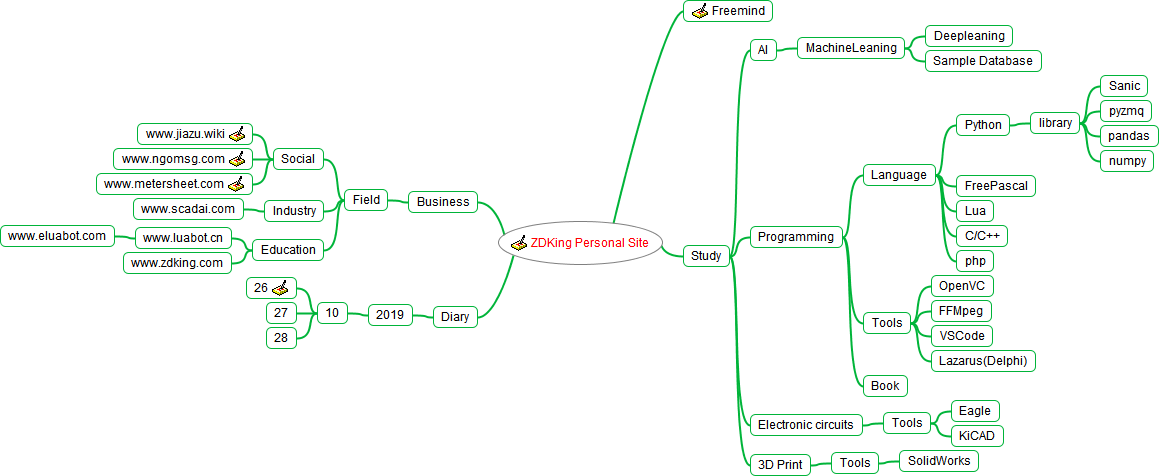
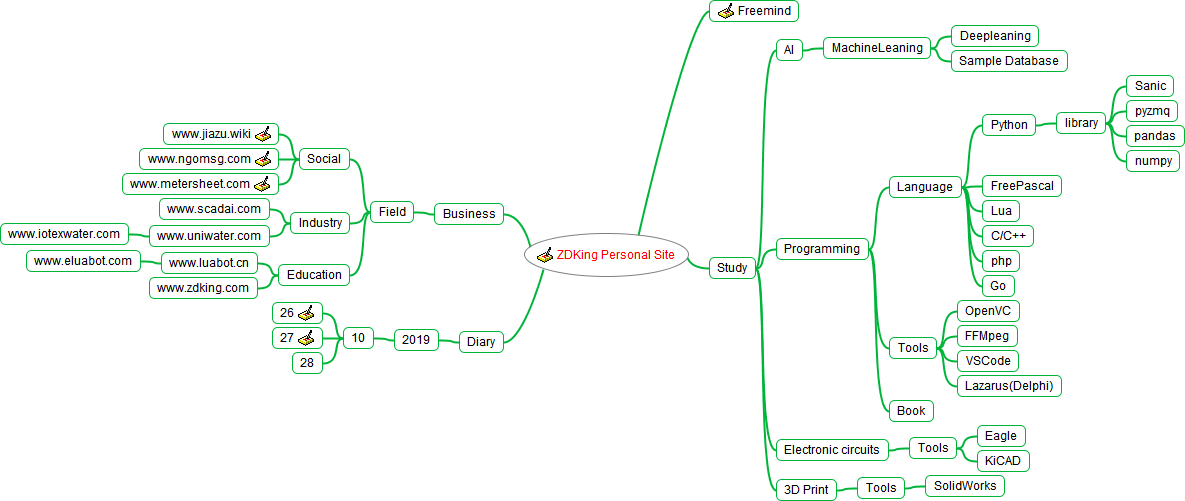
update

Changed region(s): [[0.0, 0.0, 1.0, 1.0]]

diff --git a/index.html b/index.html
@@ -23,13 +23,13 @@
                    };
                };
           
-          --></script></head><body><h1>ZDKing Personal Site</h1><div style="width:96%;  padding:2%;  margin-bottom:10px;  border: 0px;  text-align:center;  vertical-align:center;"><img src="index.html_files//image.png" style="margin-bottom:10px; &#9;border: 0px; &#9;text-align:center; &#9;vertical-align:center;" alt="Imagemap" usemap="#fm_imagemap" /></div><map id="fm_imagemap" name="fm_imagemap"><area shape="rect" href="#FMID_324586553FM" alt="ZDKing Personal Site" title="ZDKing Personal Site" coords="498,221,663,265" /><area shape="rect" href="#FMID_1692365619FM" alt="Freemind" title="Freemind" coords="683,0,773,22" /><area shape="rect" href="#FMID_438001269FM" alt="Study" title="Study" coords="683,245,730,267" /><area shape="rect" href="#FMID_1925809980FM" alt="AI" title="AI" coords="750,39,777,61" /><area shape="rect" href="#FMID_1808935212FM" alt="MachineLeaning" title="MachineLeaning" coords="797,37,905,59" /><area shape="rect" href="#FMID_1274045151FM" alt="Deepleaning" title="Deepleaning" coords="925,25,1013,47" /><area shape="rect" href="#FMID_1541631340FM" alt="Sample Database" title="Sample Database" coords="925,50,1042,72" /><area shape="rect" href="#FMID_1450008686FM" alt="Programming" title="Programming" coords="750,226,843,248" /><area shape="rect" href="#FMID_601178110FM" alt="Language" title="Language" coords="863,164,936,186" /><area shape="rect" href="#FMID_532134653FM" alt="Python" title="Python" coords="956,114,1010,136" /><area shape="rect" href="#FMID_1126212131FM" alt="library" title="library" coords="1030,112,1080,134" /><area shape="rect" href="#FMID_166784092FM" alt="Sanic" title="Sanic" coords="1100,75,1148,97" /><area shape="rect" href="#FMID_580101920FM" alt="pyzmq" title="pyzmq" coords="1100,100,1152,122" /><area shape="rect" href="#FMID_1724360212FM" alt="pandas" title="pandas" coords="1100,125,1159,147" /><area shape="rect" href="#FMID_1177914584FM" alt="numpy" title="numpy" coords="1100,150,1154,172" /><area shape="rect" href="#FMID_1179983716FM" alt="FreePascal" title="FreePascal" coords="956,175,1036,197" /><area shape="rect" href="#FMID_1032736293FM" alt="Lua" title="Lua" coords="956,200,994,222" /><area shape="rect" href="#FMID_273419364FM" alt="C/C++" title="C/C++" coords="956,225,1008,247" /><area shape="rect" href="#FMID_1274681725FM" alt="php" title="php" coords="956,250,994,272" /><area shape="rect" href="#FMID_814754868FM" alt="Tools" title="Tools" coords="863,312,911,334" /><area shape="rect" href="#FMID_1771251486FM" alt="OpenVC" title="OpenVC" coords="931,275,994,297" /><area shape="rect" href="#FMID_281736592FM" alt="FFMpeg" title="FFMpeg" coords="931,300,992,322" /><area shape="rect" href="#FMID_125081083FM" alt="VSCode" title="VSCode" coords="931,325,993,347" /><area shape="rect" href="#FMID_1157037978FM" alt="Lazarus(Delphi)" title="Lazarus(Delphi)" coords="931,350,1036,372" /><area shape="rect" href="#FMID_929158994FM" alt="Book" title="Book" coords="863,375,908,397" /><area shape="rect" href="#FMID_1467440762FM" alt="Electronic circuits" title="Electronic circuits" coords="750,414,863,436" /><area shape="rect" href="#FMID_724490479FM" alt="Tools" title="Tools" coords="883,412,931,434" /><area shape="rect" href="#FMID_1334848775FM" alt="Eagle" title="Eagle" coords="951,400,1000,422" /><area shape="rect" href="#FMID_748104726FM" alt="KiCAD" title="KiCAD" coords="951,425,1004,447" /><area shape="rect" href="#FMID_1907627200FM" alt="3D Print" title="3D Print" coords="750,454,811,476" /><area shape="rect" href="#FMID_1784762606FM" alt="Tools" title="Tools" coords="831,452,879,474" /><area shape="rect" href="#FMID_795148257FM" alt="SolidWorks" title="SolidWorks" coords="899,450,979,472" /><area shape="rect" href="#FMID_665399369FM" alt="Business" title="Business" coords="408,191,478,213" /><area shape="rect" href="#FMID_1979929464FM" alt="Field" title="Field" coords="344,189,388,211" /><area shape="rect" href="#FMID_1813335850FM" alt="Social" title="Social" coords="273,148,324,170" /><area shape="rect" href="#FMID_715215336FM" alt="www.jiazu.wiki" title="www.jiazu.wiki" coords="137,123,253,145" /><area shape="rect" href="#FMID_172414357FM" alt="www.ngomsg.com" title="www.ngomsg.com" coords="113,148,253,170" /><area shape="rect" href="#FMID_1734874101FM" alt="www.metersheet.com" title="www.metersheet.com" coords="96,173,253,195" /><area shape="rect" href="#FMID_714604465FM" alt="Industry" title="Industry" coords="264,200,324,222" /><area shape="rect" href="#FMID_1628388255FM" alt="www.scadai.com" title="www.scadai.com" coords="133,198,244,220" /><area shape="rect" href="#FMID_1527942893FM" alt="Education" title="Education" coords="252,239,324,261" /><area shape="rect" href="#FMID_70371952FM" alt="www.luabot.cn" title="www.luabot.cn" coords="135,227,232,249" /><area shape="rect" href="#FMID_483627979FM" alt="www.eluabot.com" title="www.eluabot.com" coords="0,225,115,247" /><area shape="rect" href="#FMID_1557303617FM" alt="www.zdking.com" title="www.zdking.com" coords="123,252,232,274" /><area shape="rect" href="#FMID_393752218FM" alt="Diary" title="Diary" coords="433,306,478,328" /><area shape="rect" href="#FMID_1789706351FM" alt="2019" title="2019" coords="368,304,413,326" /><area shape="rect" href="#FMID_871307802FM" alt="10" title="10" coords="317,302,348,324" /><area shape="rect" href="#FMID_1291112032FM" alt="26" title="26" coords="246,277,297,299" /><area shape="rect" href="#FMID_889546281FM" alt="27" title="27" coords="266,302,297,324" /><area shape="rect" href="#FMID_1162359967FM" alt="28" title="28" coords="266,327,297,349" /></map>
+          --></script></head><body><h1>ZDKing Personal Site</h1><div style="width:96%;  padding:2%;  margin-bottom:10px;  border: 0px;  text-align:center;  vertical-align:center;"><img src="index.html_files//image.png" style="margin-bottom:10px; &#9;border: 0px; &#9;text-align:center; &#9;vertical-align:center;" alt="Imagemap" usemap="#fm_imagemap" /></div><map id="fm_imagemap" name="fm_imagemap"><area shape="rect" href="#FMID_324586553FM" alt="ZDKing Personal Site" title="ZDKing Personal Site" coords="524,233,689,277" /><area shape="rect" href="#FMID_1692365619FM" alt="Freemind" title="Freemind" coords="709,0,799,22" /><area shape="rect" href="#FMID_438001269FM" alt="Study" title="Study" coords="709,257,756,279" /><area shape="rect" href="#FMID_1925809980FM" alt="AI" title="AI" coords="776,39,803,61" /><area shape="rect" href="#FMID_1808935212FM" alt="MachineLeaning" title="MachineLeaning" coords="823,37,931,59" /><area shape="rect" href="#FMID_1274045151FM" alt="Deepleaning" title="Deepleaning" coords="951,25,1039,47" /><area shape="rect" href="#FMID_1541631340FM" alt="Sample Database" title="Sample Database" coords="951,50,1068,72" /><area shape="rect" href="#FMID_1450008686FM" alt="Programming" title="Programming" coords="776,238,869,260" /><area shape="rect" href="#FMID_601178110FM" alt="Language" title="Language" coords="889,176,962,198" /><area shape="rect" href="#FMID_532134653FM" alt="Python" title="Python" coords="982,114,1036,136" /><area shape="rect" href="#FMID_1126212131FM" alt="library" title="library" coords="1056,112,1106,134" /><area shape="rect" href="#FMID_166784092FM" alt="Sanic" title="Sanic" coords="1126,75,1174,97" /><area shape="rect" href="#FMID_580101920FM" alt="pyzmq" title="pyzmq" coords="1126,100,1178,122" /><area shape="rect" href="#FMID_1724360212FM" alt="pandas" title="pandas" coords="1126,125,1185,147" /><area shape="rect" href="#FMID_1177914584FM" alt="numpy" title="numpy" coords="1126,150,1180,172" /><area shape="rect" href="#FMID_1179983716FM" alt="FreePascal" title="FreePascal" coords="982,175,1062,197" /><area shape="rect" href="#FMID_1032736293FM" alt="Lua" title="Lua" coords="982,200,1020,222" /><area shape="rect" href="#FMID_273419364FM" alt="C/C++" title="C/C++" coords="982,225,1034,247" /><area shape="rect" href="#FMID_1274681725FM" alt="php" title="php" coords="982,250,1020,272" /><area shape="rect" href="#FMID_1379882171FM" alt="Go" title="Go" coords="982,275,1015,297" /><area shape="rect" href="#FMID_814754868FM" alt="Tools" title="Tools" coords="889,337,937,359" /><area shape="rect" href="#FMID_1771251486FM" alt="OpenVC" title="OpenVC" coords="957,300,1020,322" /><area shape="rect" href="#FMID_281736592FM" alt="FFMpeg" title="FFMpeg" coords="957,325,1018,347" /><area shape="rect" href="#FMID_125081083FM" alt="VSCode" title="VSCode" coords="957,350,1019,372" /><area shape="rect" href="#FMID_1157037978FM" alt="Lazarus(Delphi)" title="Lazarus(Delphi)" coords="957,375,1062,397" /><area shape="rect" href="#FMID_929158994FM" alt="Book" title="Book" coords="889,400,934,422" /><area shape="rect" href="#FMID_1467440762FM" alt="Electronic circuits" title="Electronic circuits" coords="776,439,889,461" /><area shape="rect" href="#FMID_724490479FM" alt="Tools" title="Tools" coords="909,437,957,459" /><area shape="rect" href="#FMID_1334848775FM" alt="Eagle" title="Eagle" coords="977,425,1026,447" /><area shape="rect" href="#FMID_748104726FM" alt="KiCAD" title="KiCAD" coords="977,450,1030,472" /><area shape="rect" href="#FMID_1907627200FM" alt="3D Print" title="3D Print" coords="776,479,837,501" /><area shape="rect" href="#FMID_1784762606FM" alt="Tools" title="Tools" coords="857,477,905,499" /><area shape="rect" href="#FMID_795148257FM" alt="SolidWorks" title="SolidWorks" coords="925,475,1005,497" /><area shape="rect" href="#FMID_665399369FM" alt="Business" title="Business" coords="434,203,504,225" /><area shape="rect" href="#FMID_1979929464FM" alt="Field" title="Field" coords="370,201,414,223" /><area shape="rect" href="#FMID_1813335850FM" alt="Social" title="Social" coords="299,148,350,170" /><area shape="rect" href="#FMID_715215336FM" alt="www.jiazu.wiki" title="www.jiazu.wiki" coords="163,123,279,145" /><area shape="rect" href="#FMID_172414357FM" alt="www.ngomsg.com" title="www.ngomsg.com" coords="139,148,279,170" /><area shape="rect" href="#FMID_1734874101FM" alt="www.metersheet.com" title="www.metersheet.com" coords="122,173,279,195" /><area shape="rect" href="#FMID_714604465FM" alt="Industry" title="Industry" coords="290,212,350,234" /><area shape="rect" href="#FMID_1628388255FM" alt="www.scadai.com" title="www.scadai.com" coords="159,198,270,220" /><area shape="rect" href="#FMID_540403476FM" alt="www.uniwater.com" title="www.uniwater.com" coords="149,225,270,247" /><area shape="rect" href="#FMID_579435031FM" alt="www.iotexwater.com" title="www.iotexwater.com" coords="0,223,129,245" /><area shape="rect" href="#FMID_1527942893FM" alt="Education" title="Education" coords="278,264,350,286" /><area shape="rect" href="#FMID_70371952FM" alt="www.luabot.cn" title="www.luabot.cn" coords="161,252,258,274" /><area shape="rect" href="#FMID_483627979FM" alt="www.eluabot.com" title="www.eluabot.com" coords="26,250,141,272" /><area shape="rect" href="#FMID_1557303617FM" alt="www.zdking.com" title="www.zdking.com" coords="149,277,258,299" /><area shape="rect" href="#FMID_393752218FM" alt="Diary" title="Diary" coords="459,331,504,353" /><area shape="rect" href="#FMID_1789706351FM" alt="2019" title="2019" coords="394,329,439,351" /><area shape="rect" href="#FMID_871307802FM" alt="10" title="10" coords="343,327,374,349" /><area shape="rect" href="#FMID_1291112032FM" alt="26" title="26" coords="272,302,323,324" /><area shape="rect" href="#FMID_889546281FM" alt="27" title="27" coords="272,327,323,349" /><area shape="rect" href="#FMID_1162359967FM" alt="28" title="28" coords="292,352,323,374" /></map>
 
 <div class="node"><img src="index.html_files//hide.png" class="hideshow" alt="hide" onClick="toggle(&quot;N10007&quot;)" id="imgN10007" /><a id="FMID_324586553FM" /><div class="nodecontent" style="color:#ff0000;background-color:#ffffff;">ZDKing Personal Site</div><div class="note-and-attributes"><span class="note">
     <p>
       2019年10月26日16:48，此时此刻我坐在北京丰台区的宾馆里，用Github写自己的个人网站，记录所学、所想、所知、所为... 。既然是记录，用什么方式记录能帮助我梳理思绪，立刻想到脑图。
     </p>
-  </span></div><div class="content" id="N10007"><div class="node"><img src="index.html_files//hide.png" class="hideshow" alt="hide" onClick="toggle(&quot;N100FB&quot;)" id="imgN100FB" /><a id="FMID_665399369FM" /><div class="nodecontent">Business</div><div class="content" id="N100FB"><div class="node"><img src="index.html_files//hide.png" class="hideshow" alt="hide" onClick="toggle(&quot;N10102&quot;)" id="imgN10102" /><a id="FMID_1979929464FM" /><div class="nodecontent">Field</div><div class="content" id="N10102"><div class="node"><img src="index.html_files//hide.png" class="hideshow" alt="hide" onClick="toggle(&quot;N10108&quot;)" id="imgN10108" /><a id="FMID_1813335850FM" /><div class="nodecontent">Social</div><div class="content" id="N10108"><div class="node"><img src="index.html_files//leaf.png" class="hideshow" alt="leaf" /><a id="FMID_715215336FM" /><div class="nodecontent">www.jiazu.wiki</div><div class="note-and-attributes"><span class="note">
+  </span></div><div class="content" id="N10007"><div class="node"><img src="index.html_files//hide.png" class="hideshow" alt="hide" onClick="toggle(&quot;N100FF&quot;)" id="imgN100FF" /><a id="FMID_665399369FM" /><div class="nodecontent">Business</div><div class="content" id="N100FF"><div class="node"><img src="index.html_files//hide.png" class="hideshow" alt="hide" onClick="toggle(&quot;N10106&quot;)" id="imgN10106" /><a id="FMID_1979929464FM" /><div class="nodecontent">Field</div><div class="content" id="N10106"><div class="node"><img src="index.html_files//hide.png" class="hideshow" alt="hide" onClick="toggle(&quot;N1010C&quot;)" id="imgN1010C" /><a id="FMID_1813335850FM" /><div class="nodecontent">Social</div><div class="content" id="N1010C"><div class="node"><img src="index.html_files//leaf.png" class="hideshow" alt="leaf" /><a id="FMID_715215336FM" /><div class="nodecontent">www.jiazu.wiki</div><div class="note-and-attributes"><span class="note">
     <p>
       我利用开源的JSMind和php编写的家族族谱的网站，可以用它来记录自己家的族谱并记录先辈的事迹。网站首页默认打开了孔圣人的家谱，并为你展示了孔圣人后代，南宗北宗等分支，家族人员脉络清晰，人员生平事迹可以双击人名打开网页查看，使用方便，同时支持手机，平板浏览。
     </p>
@@ -95,13 +95,17 @@
     <p>
       问题反馈：webmaster@lanwav.com
     </p>
-  </span></div></div></div></div><div class="node"><img src="index.html_files//hide.png" class="hideshow" alt="hide" onClick="toggle(&quot;N10187&quot;)" id="imgN10187" /><a id="FMID_714604465FM" /><div class="nodecontent">Industry</div><div class="content" id="N10187"><div class="node"><img src="index.html_files//leaf.png" class="hideshow" alt="leaf" /><a id="FMID_1628388255FM" /><div class="nodecontent">www.scadai.com</div></div></div></div><div class="node"><img src="index.html_files//hide.png" class="hideshow" alt="hide" onClick="toggle(&quot;N10194&quot;)" id="imgN10194" /><a id="FMID_1527942893FM" /><div class="nodecontent">Education</div><div class="content" id="N10194"><div class="node"><img src="index.html_files//hide.png" class="hideshow" alt="hide" onClick="toggle(&quot;N1019A&quot;)" id="imgN1019A" /><a id="FMID_70371952FM" /><div class="nodecontent">www.luabot.cn</div><div class="content" id="N1019A"><div class="node"><img src="index.html_files//leaf.png" class="hideshow" alt="leaf" /><a id="FMID_483627979FM" /><div class="nodecontent">www.eluabot.com</div></div></div></div><div class="node"><img src="index.html_files//leaf.png" class="hideshow" alt="leaf" /><a id="FMID_1557303617FM" /><div class="nodecontent">www.zdking.com</div></div></div></div></div></div></div></div><div class="node"><img src="index.html_files//hide.png" class="hideshow" alt="hide" onClick="toggle(&quot;N101B0&quot;)" id="imgN101B0" /><a id="FMID_393752218FM" /><div class="nodecontent">Diary</div><div class="content" id="N101B0"><div class="node"><img src="index.html_files//hide.png" class="hideshow" alt="hide" onClick="toggle(&quot;N101B7&quot;)" id="imgN101B7" /><a id="FMID_1789706351FM" /><div class="nodecontent">2019</div><div class="content" id="N101B7"><div class="node"><img src="index.html_files//hide.png" class="hideshow" alt="hide" onClick="toggle(&quot;N101BD&quot;)" id="imgN101BD" /><a id="FMID_871307802FM" /><div class="nodecontent">10</div><div class="content" id="N101BD"><div class="node"><img src="index.html_files//leaf.png" class="hideshow" alt="leaf" /><a id="FMID_1291112032FM" /><div class="nodecontent">26</div><div class="note-and-attributes"><span class="note">
+  </span></div></div></div></div><div class="node"><img src="index.html_files//hide.png" class="hideshow" alt="hide" onClick="toggle(&quot;N10188&quot;)" id="imgN10188" /><a id="FMID_714604465FM" /><div class="nodecontent">Industry</div><div class="content" id="N10188"><div class="node"><img src="index.html_files//leaf.png" class="hideshow" alt="leaf" /><a id="FMID_1628388255FM" /><div class="nodecontent">www.scadai.com</div></div><div class="node"><img src="index.html_files//hide.png" class="hideshow" alt="hide" onClick="toggle(&quot;N10194&quot;)" id="imgN10194" /><a id="FMID_540403476FM" /><div class="nodecontent">www.uniwater.com</div><div class="content" id="N10194"><div class="node"><img src="index.html_files//leaf.png" class="hideshow" alt="leaf" /><a id="FMID_579435031FM" /><div class="nodecontent">www.iotexwater.com</div></div></div></div></div></div><div class="node"><img src="index.html_files//hide.png" class="hideshow" alt="hide" onClick="toggle(&quot;N101A2&quot;)" id="imgN101A2" /><a id="FMID_1527942893FM" /><div class="nodecontent">Education</div><div class="content" id="N101A2"><div class="node"><img src="index.html_files//hide.png" class="hideshow" alt="hide" onClick="toggle(&quot;N101A8&quot;)" id="imgN101A8" /><a id="FMID_70371952FM" /><div class="nodecontent">www.luabot.cn</div><div class="content" id="N101A8"><div class="node"><img src="index.html_files//leaf.png" class="hideshow" alt="leaf" /><a id="FMID_483627979FM" /><div class="nodecontent">www.eluabot.com</div></div></div></div><div class="node"><img src="index.html_files//leaf.png" class="hideshow" alt="leaf" /><a id="FMID_1557303617FM" /><div class="nodecontent">www.zdking.com</div></div></div></div></div></div></div></div><div class="node"><img src="index.html_files//hide.png" class="hideshow" alt="hide" onClick="toggle(&quot;N101BE&quot;)" id="imgN101BE" /><a id="FMID_393752218FM" /><div class="nodecontent">Diary</div><div class="content" id="N101BE"><div class="node"><img src="index.html_files//hide.png" class="hideshow" alt="hide" onClick="toggle(&quot;N101C5&quot;)" id="imgN101C5" /><a id="FMID_1789706351FM" /><div class="nodecontent">2019</div><div class="content" id="N101C5"><div class="node"><img src="index.html_files//hide.png" class="hideshow" alt="hide" onClick="toggle(&quot;N101CB&quot;)" id="imgN101CB" /><a id="FMID_871307802FM" /><div class="nodecontent">10</div><div class="content" id="N101CB"><div class="node"><img src="index.html_files//leaf.png" class="hideshow" alt="leaf" /><a id="FMID_1291112032FM" /><div class="nodecontent">26</div><div class="note-and-attributes"><span class="note">
     <p>
       2019年10月26日，买了一个zdking.com的域名，并在github上开通了个人博客。
     </p>
-  </span></div></div><div class="node"><img src="index.html_files//leaf.png" class="hideshow" alt="leaf" /><a id="FMID_889546281FM" /><div class="nodecontent">27</div></div><div class="node"><img src="index.html_files//leaf.png" class="hideshow" alt="leaf" /><a id="FMID_1162359967FM" /><div class="nodecontent">28</div></div></div></div></div></div></div></div><div class="node"><img src="index.html_files//leaf.png" class="hideshow" alt="leaf" /><a id="FMID_1692365619FM" /><div class="nodecontent">Freemind</div><div class="note-and-attributes"><span class="note">
+  </span></div></div><div class="node"><img src="index.html_files//leaf.png" class="hideshow" alt="leaf" /><a id="FMID_889546281FM" /><div class="nodecontent">27</div><div class="note-and-attributes"><span class="note">
+    <p>
+      2019年10月27日，北京秋日的阳光透过窗来到我的卧室，窗外树上的小鸟喳喳的叫不停，一切那么明亮美好。有梦想就要勇敢去追求，可是面对我这么多要做的事情，从哪里开始呢？老话说“路在脚下”，我的路在哪里？
+    </p>
+  </span></div></div><div class="node"><img src="index.html_files//leaf.png" class="hideshow" alt="leaf" /><a id="FMID_1162359967FM" /><div class="nodecontent">28</div></div></div></div></div></div></div></div><div class="node"><img src="index.html_files//leaf.png" class="hideshow" alt="leaf" /><a id="FMID_1692365619FM" /><div class="nodecontent">Freemind</div><div class="note-and-attributes"><span class="note">
     <p>
       工具主页：http://freemind.sourceforge.net/wiki/index.php/Main_Page
     </p>
-  </span></div></div><div class="node"><img src="index.html_files//hide.png" class="hideshow" alt="hide" onClick="toggle(&quot;N1003A&quot;)" id="imgN1003A" /><a id="FMID_438001269FM" /><div class="nodecontent">Study</div><div class="content" id="N1003A"><div class="node"><img src="index.html_files//hide.png" class="hideshow" alt="hide" onClick="toggle(&quot;N10041&quot;)" id="imgN10041" /><a id="FMID_1925809980FM" /><div class="nodecontent">AI</div><div class="content" id="N10041"><div class="node"><img src="index.html_files//hide.png" class="hideshow" alt="hide" onClick="toggle(&quot;N10047&quot;)" id="imgN10047" /><a id="FMID_1808935212FM" /><div class="nodecontent">MachineLeaning</div><div class="content" id="N10047"><div class="node"><img src="index.html_files//leaf.png" class="hideshow" alt="leaf" /><a id="FMID_1274045151FM" /><div class="nodecontent">Deepleaning</div></div><div class="node"><img src="index.html_files//leaf.png" class="hideshow" alt="leaf" /><a id="FMID_1541631340FM" /><div class="nodecontent">Sample Database</div></div></div></div></div></div><div class="node"><img src="index.html_files//hide.png" class="hideshow" alt="hide" onClick="toggle(&quot;N1005B&quot;)" id="imgN1005B" /><a id="FMID_1450008686FM" /><div class="nodecontent">Programming</div><div class="content" id="N1005B"><div class="node"><img src="index.html_files//hide.png" class="hideshow" alt="hide" onClick="toggle(&quot;N10061&quot;)" id="imgN10061" /><a id="FMID_601178110FM" /><div class="nodecontent">Language</div><div class="content" id="N10061"><div class="node"><img src="index.html_files//hide.png" class="hideshow" alt="hide" onClick="toggle(&quot;N10067&quot;)" id="imgN10067" /><a id="FMID_532134653FM" /><div class="nodecontent">Python</div><div class="content" id="N10067"><div class="node"><img src="index.html_files//hide.png" class="hideshow" alt="hide" onClick="toggle(&quot;N1006D&quot;)" id="imgN1006D" /><a id="FMID_1126212131FM" /><div class="nodecontent">library</div><div class="content" id="N1006D"><div class="node"><img src="index.html_files//leaf.png" class="hideshow" alt="leaf" /><a id="FMID_166784092FM" /><div class="nodecontent">Sanic</div></div><div class="node"><img src="index.html_files//leaf.png" class="hideshow" alt="leaf" /><a id="FMID_580101920FM" /><div class="nodecontent">pyzmq</div></div><div class="node"><img src="index.html_files//leaf.png" class="hideshow" alt="leaf" /><a id="FMID_1724360212FM" /><div class="nodecontent">pandas</div></div><div class="node"><img src="index.html_files//leaf.png" class="hideshow" alt="leaf" /><a id="FMID_1177914584FM" /><div class="nodecontent">numpy</div></div></div></div></div></div><div class="node"><img src="index.html_files//leaf.png" class="hideshow" alt="leaf" /><a id="FMID_1179983716FM" /><div class="nodecontent">FreePascal</div></div><div class="node"><img src="index.html_files//leaf.png" class="hideshow" alt="leaf" /><a id="FMID_1032736293FM" /><div class="nodecontent">Lua</div></div><div class="node"><img src="index.html_files//leaf.png" class="hideshow" alt="leaf" /><a id="FMID_273419364FM" /><div class="nodecontent">C/C++</div></div><div class="node"><img src="index.html_files//leaf.png" class="hideshow" alt="leaf" /><a id="FMID_1274681725FM" /><div class="nodecontent">php</div></div></div></div><div class="node"><img src="index.html_files//hide.png" class="hideshow" alt="hide" onClick="toggle(&quot;N100A6&quot;)" id="imgN100A6" /><a id="FMID_814754868FM" /><div class="nodecontent">Tools</div><div class="content" id="N100A6"><div class="node"><img src="index.html_files//leaf.png" class="hideshow" alt="leaf" /><a id="FMID_1771251486FM" /><div class="nodecontent">OpenVC</div></div><div class="node"><img src="index.html_files//leaf.png" class="hideshow" alt="leaf" /><a id="FMID_281736592FM" /><div class="nodecontent">FFMpeg</div></div><div class="node"><img src="index.html_files//leaf.png" class="hideshow" alt="leaf" /><a id="FMID_125081083FM" /><div class="nodecontent">VSCode</div></div><div class="node"><img src="index.html_files//leaf.png" class="hideshow" alt="leaf" /><a id="FMID_1157037978FM" /><div class="nodecontent">Lazarus(Delphi)</div></div></div></div><div class="node"><img src="index.html_files//leaf.png" class="hideshow" alt="leaf" /><a id="FMID_929158994FM" /><div class="nodecontent">Book</div></div></div></div><div class="node"><img src="index.html_files//hide.png" class="hideshow" alt="hide" onClick="toggle(&quot;N100CC&quot;)" id="imgN100CC" /><a id="FMID_1467440762FM" /><div class="nodecontent">Electronic circuits</div><div class="content" id="N100CC"><div class="node"><img src="index.html_files//hide.png" class="hideshow" alt="hide" onClick="toggle(&quot;N100D2&quot;)" id="imgN100D2" /><a id="FMID_724490479FM" /><div class="nodecontent">Tools</div><div class="content" id="N100D2"><div class="node"><img src="index.html_files//leaf.png" class="hideshow" alt="leaf" /><a id="FMID_1334848775FM" /><div class="nodecontent">Eagle</div></div><div class="node"><img src="index.html_files//leaf.png" class="hideshow" alt="leaf" /><a id="FMID_748104726FM" /><div class="nodecontent">KiCAD</div></div></div></div></div></div><div class="node"><img src="index.html_files//hide.png" class="hideshow" alt="hide" onClick="toggle(&quot;N100E6&quot;)" id="imgN100E6" /><a id="FMID_1907627200FM" /><div class="nodecontent">3D Print</div><div class="content" id="N100E6"><div class="node"><img src="index.html_files//hide.png" class="hideshow" alt="hide" onClick="toggle(&quot;N100EC&quot;)" id="imgN100EC" /><a id="FMID_1784762606FM" /><div class="nodecontent">Tools</div><div class="content" id="N100EC"><div class="node"><img src="index.html_files//leaf.png" class="hideshow" alt="leaf" /><a id="FMID_795148257FM" /><div class="nodecontent">SolidWorks</div></div></div></div></div></div></div></div></div></div>
+  </span></div></div><div class="node"><img src="index.html_files//hide.png" class="hideshow" alt="hide" onClick="toggle(&quot;N10038&quot;)" id="imgN10038" /><a id="FMID_438001269FM" /><div class="nodecontent">Study</div><div class="content" id="N10038"><div class="node"><img src="index.html_files//hide.png" class="hideshow" alt="hide" onClick="toggle(&quot;N1003F&quot;)" id="imgN1003F" /><a id="FMID_1925809980FM" /><div class="nodecontent">AI</div><div class="content" id="N1003F"><div class="node"><img src="index.html_files//hide.png" class="hideshow" alt="hide" onClick="toggle(&quot;N10045&quot;)" id="imgN10045" /><a id="FMID_1808935212FM" /><div class="nodecontent">MachineLeaning</div><div class="content" id="N10045"><div class="node"><img src="index.html_files//leaf.png" class="hideshow" alt="leaf" /><a id="FMID_1274045151FM" /><div class="nodecontent">Deepleaning</div></div><div class="node"><img src="index.html_files//leaf.png" class="hideshow" alt="leaf" /><a id="FMID_1541631340FM" /><div class="nodecontent">Sample Database</div></div></div></div></div></div><div class="node"><img src="index.html_files//hide.png" class="hideshow" alt="hide" onClick="toggle(&quot;N10059&quot;)" id="imgN10059" /><a id="FMID_1450008686FM" /><div class="nodecontent">Programming</div><div class="content" id="N10059"><div class="node"><img src="index.html_files//hide.png" class="hideshow" alt="hide" onClick="toggle(&quot;N1005F&quot;)" id="imgN1005F" /><a id="FMID_601178110FM" /><div class="nodecontent">Language</div><div class="content" id="N1005F"><div class="node"><img src="index.html_files//hide.png" class="hideshow" alt="hide" onClick="toggle(&quot;N10065&quot;)" id="imgN10065" /><a id="FMID_532134653FM" /><div class="nodecontent">Python</div><div class="content" id="N10065"><div class="node"><img src="index.html_files//hide.png" class="hideshow" alt="hide" onClick="toggle(&quot;N1006B&quot;)" id="imgN1006B" /><a id="FMID_1126212131FM" /><div class="nodecontent">library</div><div class="content" id="N1006B"><div class="node"><img src="index.html_files//leaf.png" class="hideshow" alt="leaf" /><a id="FMID_166784092FM" /><div class="nodecontent">Sanic</div></div><div class="node"><img src="index.html_files//leaf.png" class="hideshow" alt="leaf" /><a id="FMID_580101920FM" /><div class="nodecontent">pyzmq</div></div><div class="node"><img src="index.html_files//leaf.png" class="hideshow" alt="leaf" /><a id="FMID_1724360212FM" /><div class="nodecontent">pandas</div></div><div class="node"><img src="index.html_files//leaf.png" class="hideshow" alt="leaf" /><a id="FMID_1177914584FM" /><div class="nodecontent">numpy</div></div></div></div></div></div><div class="node"><img src="index.html_files//leaf.png" class="hideshow" alt="leaf" /><a id="FMID_1179983716FM" /><div class="nodecontent">FreePascal</div></div><div class="node"><img src="index.html_files//leaf.png" class="hideshow" alt="leaf" /><a id="FMID_1032736293FM" /><div class="nodecontent">Lua</div></div><div class="node"><img src="index.html_files//leaf.png" class="hideshow" alt="leaf" /><a id="FMID_273419364FM" /><div class="nodecontent">C/C++</div></div><div class="node"><img src="index.html_files//leaf.png" class="hideshow" alt="leaf" /><a id="FMID_1274681725FM" /><div class="nodecontent">php</div></div><div class="node"><img src="index.html_files//leaf.png" class="hideshow" alt="leaf" /><a id="FMID_1379882171FM" /><div class="nodecontent">Go</div></div></div></div><div class="node"><img src="index.html_files//hide.png" class="hideshow" alt="hide" onClick="toggle(&quot;N100AA&quot;)" id="imgN100AA" /><a id="FMID_814754868FM" /><div class="nodecontent">Tools</div><div class="content" id="N100AA"><div class="node"><img src="index.html_files//leaf.png" class="hideshow" alt="leaf" /><a id="FMID_1771251486FM" /><div class="nodecontent">OpenVC</div></div><div class="node"><img src="index.html_files//leaf.png" class="hideshow" alt="leaf" /><a id="FMID_281736592FM" /><div class="nodecontent">FFMpeg</div></div><div class="node"><img src="index.html_files//leaf.png" class="hideshow" alt="leaf" /><a id="FMID_125081083FM" /><div class="nodecontent">VSCode</div></div><div class="node"><img src="index.html_files//leaf.png" class="hideshow" alt="leaf" /><a id="FMID_1157037978FM" /><div class="nodecontent">Lazarus(Delphi)</div></div></div></div><div class="node"><img src="index.html_files//leaf.png" class="hideshow" alt="leaf" /><a id="FMID_929158994FM" /><div class="nodecontent">Book</div></div></div></div><div class="node"><img src="index.html_files//hide.png" class="hideshow" alt="hide" onClick="toggle(&quot;N100D0&quot;)" id="imgN100D0" /><a id="FMID_1467440762FM" /><div class="nodecontent">Electronic circuits</div><div class="content" id="N100D0"><div class="node"><img src="index.html_files//hide.png" class="hideshow" alt="hide" onClick="toggle(&quot;N100D6&quot;)" id="imgN100D6" /><a id="FMID_724490479FM" /><div class="nodecontent">Tools</div><div class="content" id="N100D6"><div class="node"><img src="index.html_files//leaf.png" class="hideshow" alt="leaf" /><a id="FMID_1334848775FM" /><div class="nodecontent">Eagle</div></div><div class="node"><img src="index.html_files//leaf.png" class="hideshow" alt="leaf" /><a id="FMID_748104726FM" /><div class="nodecontent">KiCAD</div></div></div></div></div></div><div class="node"><img src="index.html_files//hide.png" class="hideshow" alt="hide" onClick="toggle(&quot;N100EA&quot;)" id="imgN100EA" /><a id="FMID_1907627200FM" /><div class="nodecontent">3D Print</div><div class="content" id="N100EA"><div class="node"><img src="index.html_files//hide.png" class="hideshow" alt="hide" onClick="toggle(&quot;N100F0&quot;)" id="imgN100F0" /><a id="FMID_1784762606FM" /><div class="nodecontent">Tools</div><div class="content" id="N100F0"><div class="node"><img src="index.html_files//leaf.png" class="hideshow" alt="leaf" /><a id="FMID_795148257FM" /><div class="nodecontent">SolidWorks</div></div></div></div></div></div></div></div></div></div>
 </body></html>

diff --git a/zking_pub.mm b/zking_pub.mm
@@ -10,8 +10,7 @@
       2019&#24180;10&#26376;26&#26085;16:48&#65292;&#27492;&#26102;&#27492;&#21051;&#25105;&#22352;&#22312;&#21271;&#20140;&#20016;&#21488;&#21306;&#30340;&#23486;&#39302;&#37324;&#65292;&#29992;Github&#20889;&#33258;&#24049;&#30340;&#20010;&#20154;&#32593;&#31449;&#65292;&#35760;&#24405;&#25152;&#23398;&#12289;&#25152;&#24819;&#12289;&#25152;&#30693;&#12289;&#25152;&#20026;... &#12290;&#26082;&#28982;&#26159;&#35760;&#24405;&#65292;&#29992;&#20160;&#20040;&#26041;&#24335;&#35760;&#24405;&#33021;&#24110;&#21161;&#25105;&#26803;&#29702;&#24605;&#32490;&#65292;&#31435;&#21051;&#24819;&#21040;&#33041;&#22270;&#12290;
     </p>
   </body>
-</html>
-</richcontent>
+</html></richcontent>
 <edge COLOR="#00b439" WIDTH="2"/>
 <node CREATED="1572082793588" ID="ID_1692365619" MODIFIED="1572082794076" POSITION="right" TEXT="Freemind">
 <richcontent TYPE="NOTE"><html>
@@ -23,8 +22,7 @@
       &#24037;&#20855;&#20027;&#39029;&#65306;http://freemind.sourceforge.net/wiki/index.php/Main_Page
     </p>
   </body>
-</html>
-</richcontent>
+</html></richcontent>
 </node>
 <node CREATED="1572082976450" ID="ID_438001269" MODIFIED="1572087395948" POSITION="right" TEXT="Study">
 <node CREATED="1572082886677" ID="ID_1925809980" MODIFIED="1572092455924" TEXT="AI">
@@ -47,6 +45,7 @@
 <node CREATED="1572083103143" ID="ID_1032736293" MODIFIED="1572092538448" TEXT="Lua"/>
 <node CREATED="1572083398822" ID="ID_273419364" MODIFIED="1572083406434" TEXT="C/C++"/>
 <node CREATED="1572097202776" ID="ID_1274681725" MODIFIED="1572097206116" TEXT="php"/>
+<node CREATED="1572139802301" ID="ID_1379882171" MODIFIED="1572139804995" TEXT="Go"/>
 </node>
 <node CREATED="1572083213467" ID="ID_814754868" MODIFIED="1572092455942" TEXT="Tools">
 <node CREATED="1572083175498" ID="ID_1771251486" MODIFIED="1572083181719" TEXT="OpenVC"/>
@@ -96,8 +95,7 @@
       &#38382;&#39064;&#21453;&#39304;&#65306;webmaster@lanwav.com
     </p>
   </body>
-</html>
-</richcontent>
+</html></richcontent>
 </node>
 <node CREATED="1572084900315" ID="ID_172414357" MODIFIED="1572097704471" TEXT="www.ngomsg.com">
 <richcontent TYPE="NOTE"><html>
@@ -127,8 +125,7 @@
       &#38382;&#39064;&#21453;&#39304;&#65306;webmaster@lanwav.com
     </p>
   </body>
-</html>
-</richcontent>
+</html></richcontent>
 </node>
 <node CREATED="1572084893770" ID="ID_1734874101" MODIFIED="1572098067607" TEXT="www.metersheet.com">
 <richcontent TYPE="NOTE"><html>
@@ -161,12 +158,14 @@
       &#38382;&#39064;&#21453;&#39304;&#65306;webmaster@lanwav.com
     </p>
   </body>
-</html>
-</richcontent>
+</html></richcontent>
 </node>
 </node>
 <node CREATED="1572083296762" ID="ID_714604465" MODIFIED="1572092227658" TEXT="Industry">
 <node CREATED="1572084132253" ID="ID_1628388255" MODIFIED="1572084914921" TEXT="www.scadai.com"/>
+<node CREATED="1572140240625" ID="ID_540403476" MODIFIED="1572140249944" TEXT="www.uniwater.com">
+<node CREATED="1572140252371" ID="ID_579435031" MODIFIED="1572140257233" TEXT="www.iotexwater.com"/>
+</node>
 </node>
 <node CREATED="1572084106527" ID="ID_1527942893" MODIFIED="1572092455074" TEXT="Education">
 <node CREATED="1572084116902" ID="ID_70371952" MODIFIED="1572096234988" TEXT="www.luabot.cn">
@@ -189,10 +188,21 @@
       2019&#24180;10&#26376;26&#26085;&#65292;&#20080;&#20102;&#19968;&#20010;zdking.com&#30340;&#22495;&#21517;&#65292;&#24182;&#22312;github&#19978;&#24320;&#36890;&#20102;&#20010;&#20154;&#21338;&#23458;&#12290;
     </p>
   </body>
+</html></richcontent>
+</node>
+<node CREATED="1572095908843" ID="ID_889546281" MODIFIED="1572181835236" TEXT="27">
+<richcontent TYPE="NOTE"><html>
+  <head>
+    
+  </head>
+  <body>
+    <p>
+      2019&#24180;10&#26376;27&#26085;&#65292;&#21271;&#20140;&#31179;&#26085;&#30340;&#38451;&#20809;&#36879;&#36807;&#31383;&#26469;&#21040;&#25105;&#30340;&#21351;&#23460;&#65292;&#31383;&#22806;&#26641;&#19978;&#30340;&#23567;&#40479;&#21939;&#21939;&#30340;&#21483;&#19981;&#20572;&#65292;&#19968;&#20999;&#37027;&#20040;&#26126;&#20142;&#32654;&#22909;&#12290;&#26377;&#26790;&#24819;&#23601;&#35201;&#21191;&#25954;&#21435;&#36861;&#27714;&#65292;&#21487;&#26159;&#38754;&#23545;&#25105;&#36825;&#20040;&#22810;&#35201;&#20570;&#30340;&#20107;&#24773;&#65292;&#20174;&#21738;&#37324;&#24320;&#22987;&#21602;&#65311;&#32769;&#35805;&#35828;&#8220;&#36335;&#22312;&#33050;&#19979;&#8221;&#65292;&#25105;&#30340;&#36335;&#22312;&#21738;&#37324;&#65311;
+    </p>
+  </body>
 </html>
 </richcontent>
 </node>
-<node CREATED="1572095908843" ID="ID_889546281" MODIFIED="1572095911521" TEXT="27"/>
 <node CREATED="1572095913470" ID="ID_1162359967" MODIFIED="1572095914743" TEXT="28"/>
 </node>
 </node>
